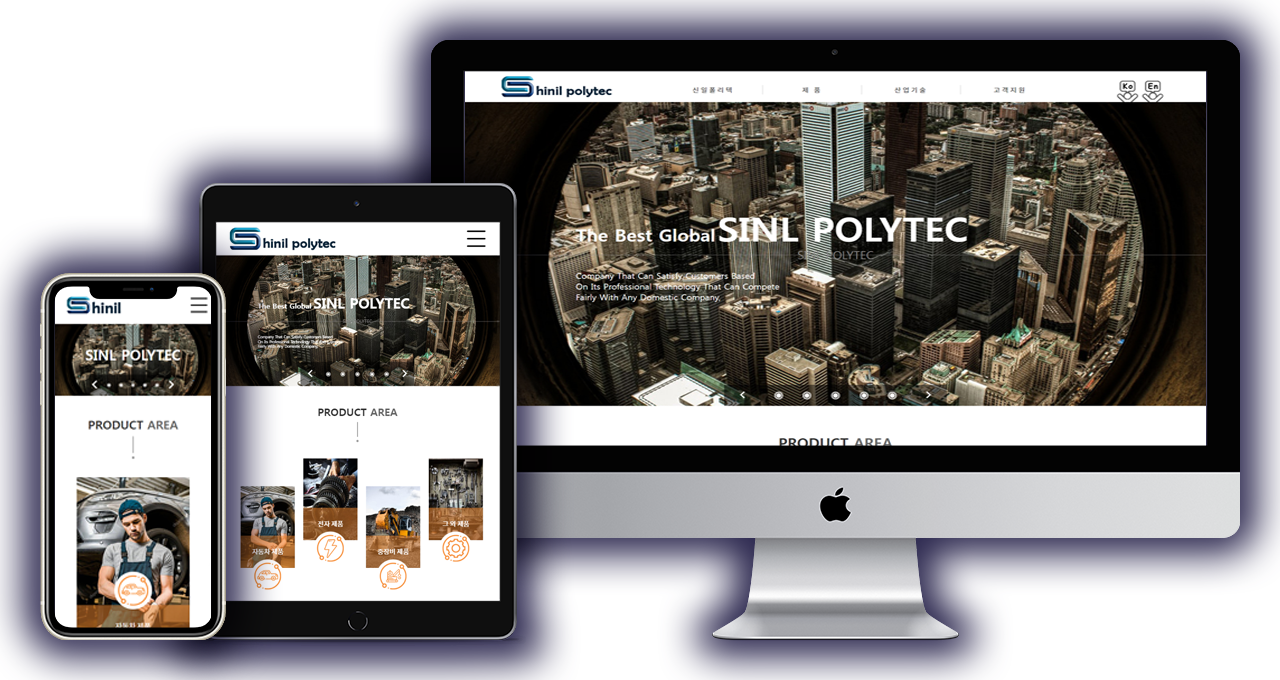
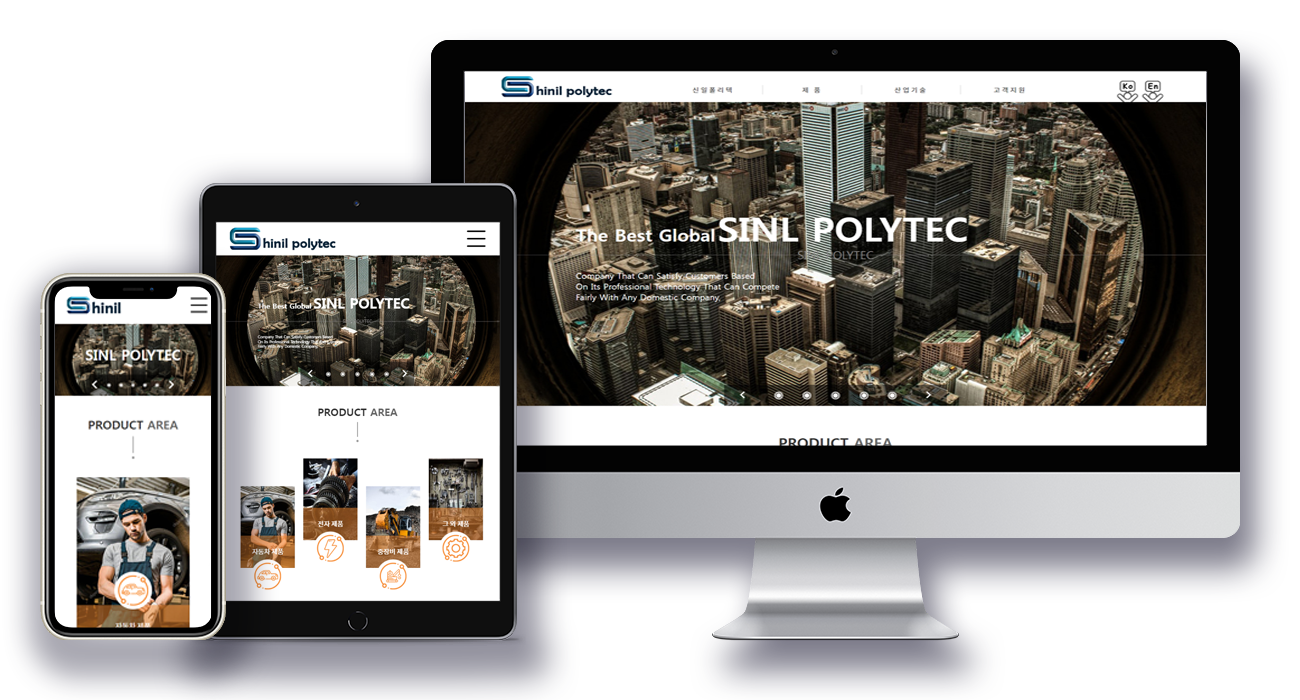
20.06.02.17.57

diff --git a/asset/css/portfolio_sub.css b/asset/css/portfolio_sub.css
@@ -62,21 +62,22 @@ header nav ul li:nth-of-type(1) a::after{
     padding-top: 15em;
 }
 .sub_contents ul{
-    /* width: 57.3; */
     width: 100%;
-    /* margin: 0 auto; */
 }
 .sub_contents ul li{
-    /* margin-top: 300px;
-    margin-bottom: 15em; */
     position: relative;
-    /* height: 600px; */
-    /* border: 2px solid pink; */
     opacity: 0;
     margin: 300px auto 15em;
 }
 .sub_contents ul li:nth-of-type(1){
     width: 57.3%;
+    animation: shadow 5s forwards;
+}
+
+@keyframes shadow{
+    100%{
+        box-shadow: 0 -1px 60px 20px #232134;
+    }
 }
 .sub_contents ul li:nth-of-type(2){
     width: 61%;
